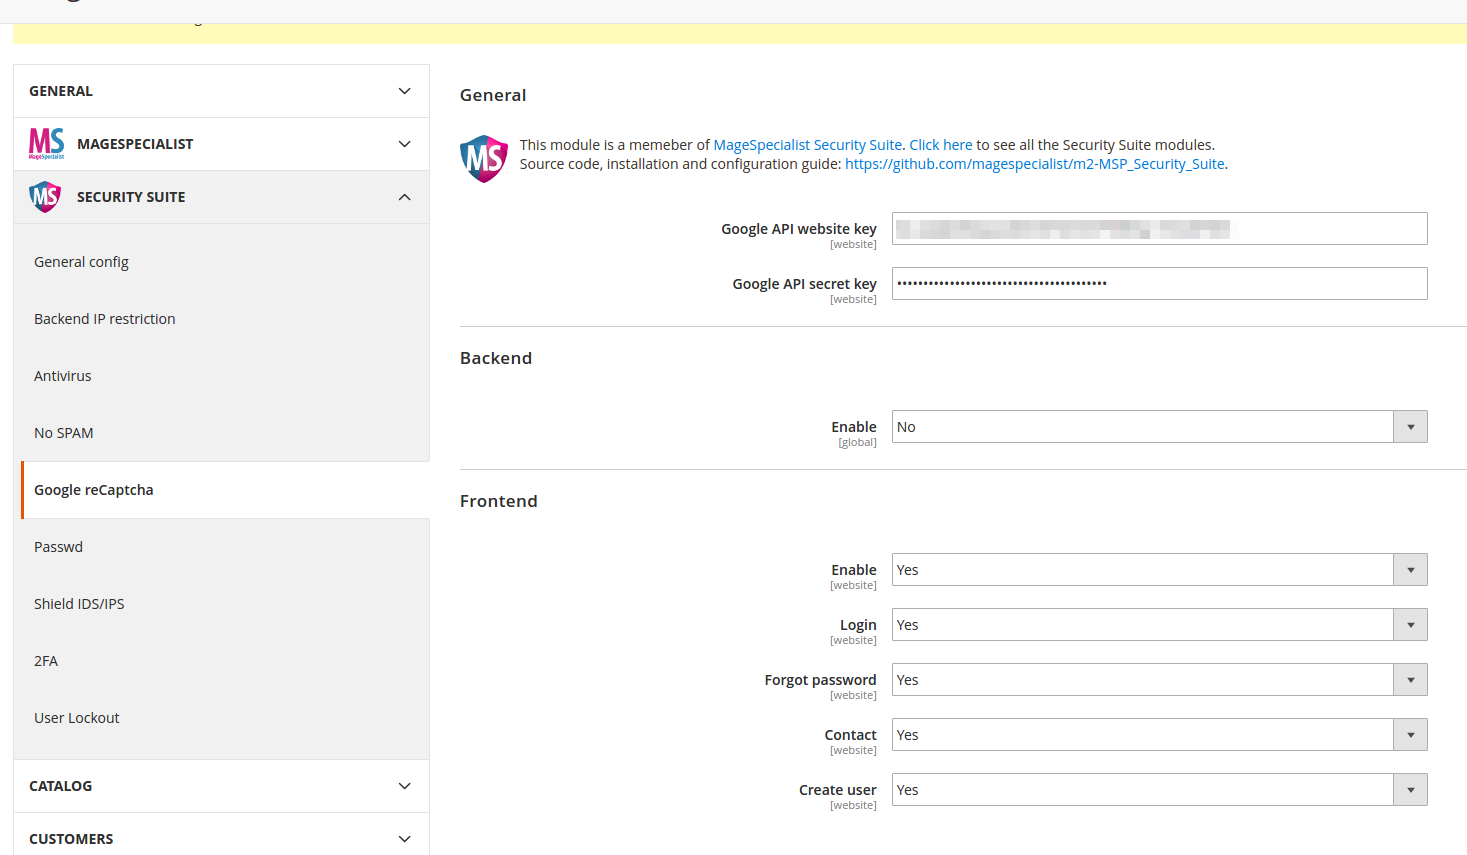
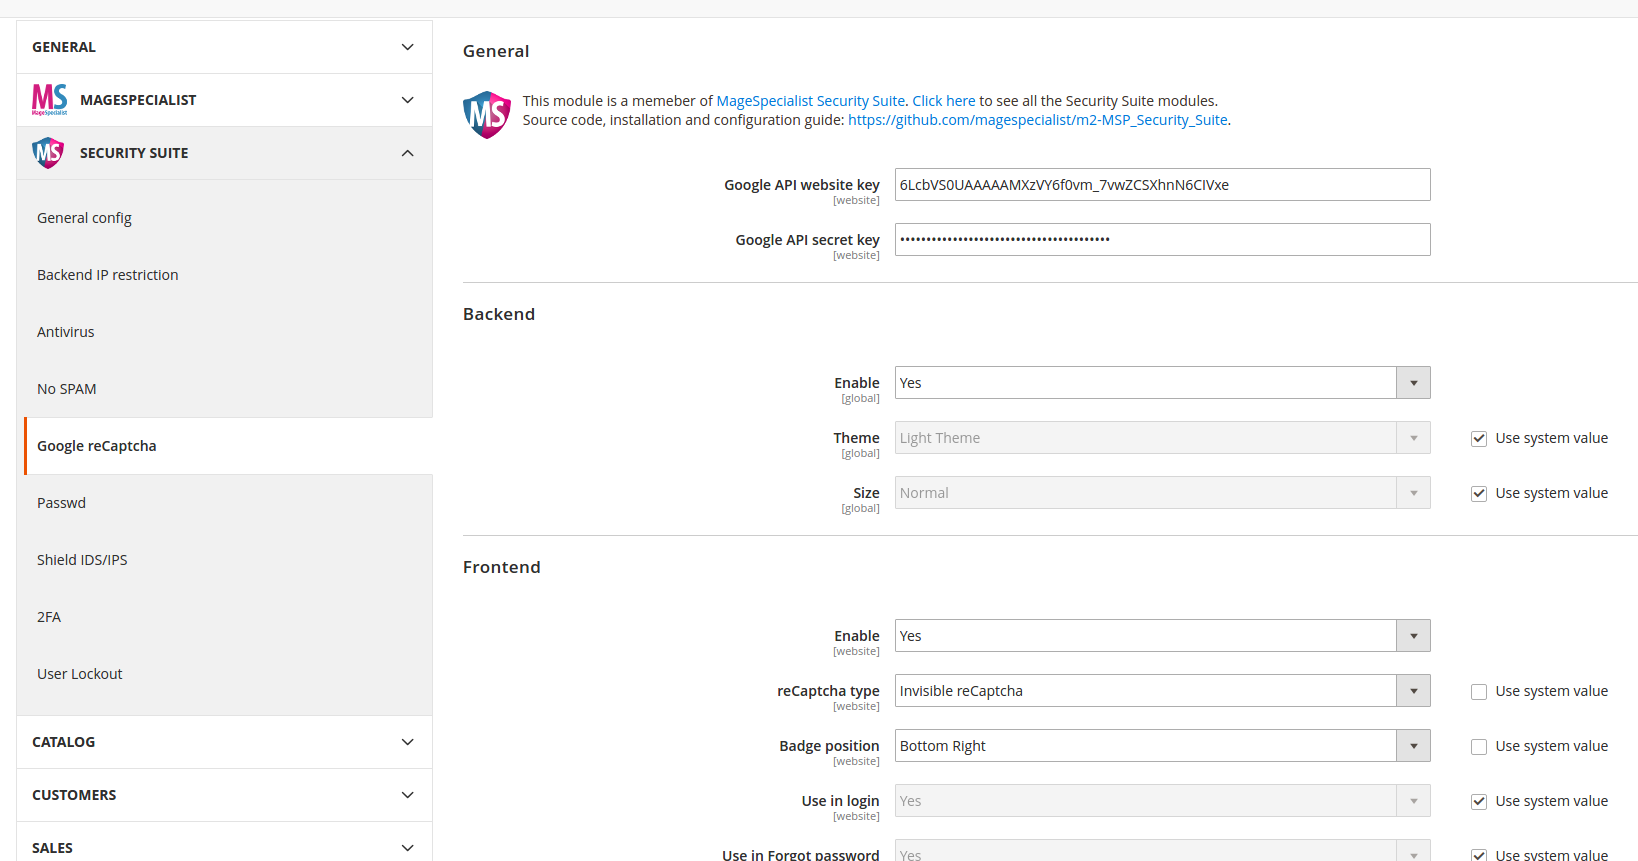
Updated README

diff --git a/README.md b/README.md
@@ -29,9 +29,17 @@ MSP reCaptcha adds a recaptcha control to:
 - Contact form
 - Forgot password
 
-**Login example:**
+### Standard reCaptcha v2
 
 <img src="https://raw.githubusercontent.com/magespecialist/m2-MSP_ReCaptcha/master/screenshots/frontend.png" />
+
+### Invisible reCaptcha support
+
+Since version 1.3.0, we support Google invisible reCaptcha to avoid e-Commerce conversions loss.
+
+<img src="https://raw.githubusercontent.com/magespecialist/m2-MSP_ReCaptcha/master/screenshots/invisible_recaptcha.png" />
+
+<img src="https://raw.githubusercontent.com/magespecialist/m2-MSP_ReCaptcha/master/screenshots/invisible_recaptcha2.png" />
 
 ## Backend:
 
